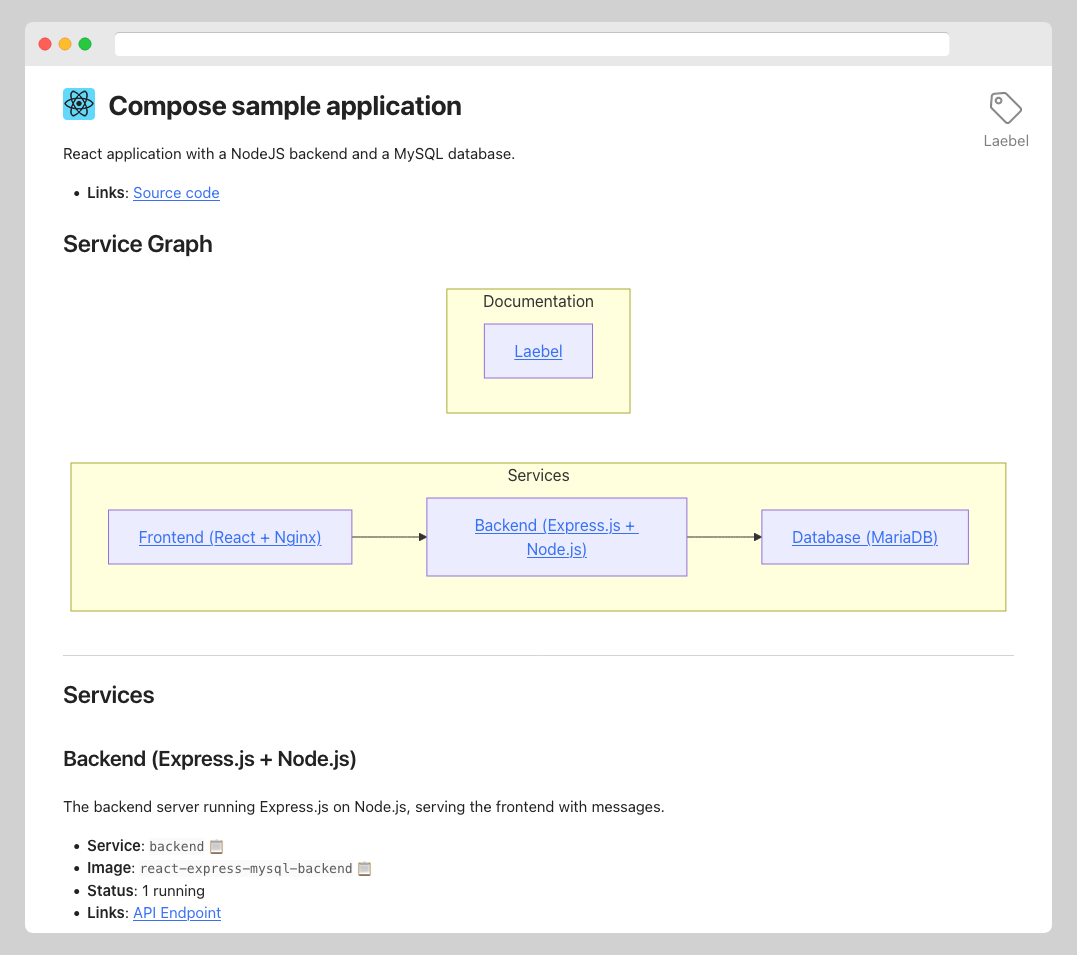
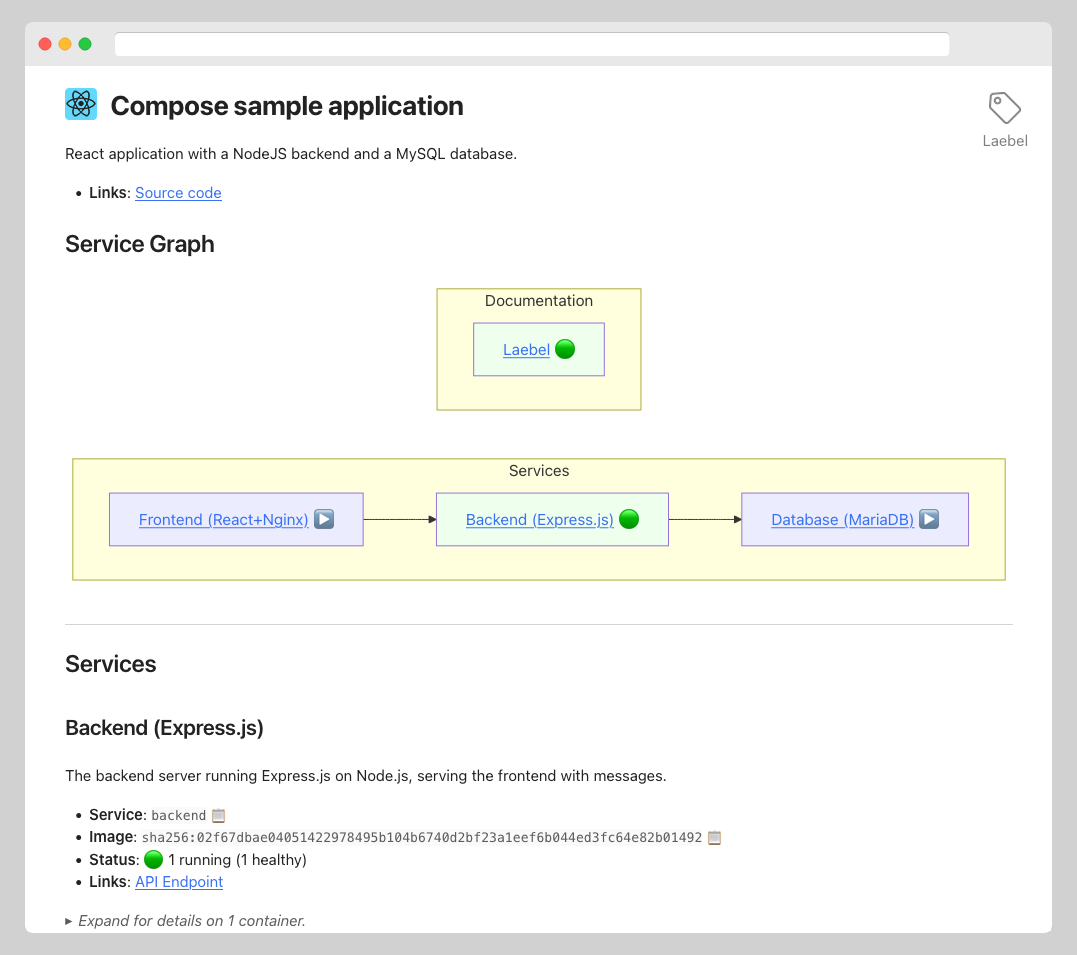
Updated example based on v0.3.0.

diff --git a/examples/react-express-mysql/laebel-output.html b/examples/react-express-mysql/laebel-output.html
@@ -32,7 +32,7 @@
             <h2 class="title">Service Graph</h2>
             
 
-<pre class="mermaid" data-processed="true"><svg aria-roledescription="flowchart-v2" role="graphics-document document" viewBox="0 0 950.88330078125 338" style="max-width: 950.88330078125px;" class="flowchart" xlink="http://www.w3.org/1999/xlink" xmlns="http://www.w3.org/2000/svg" width="100%" id="mermaid-1727380192591"><style>#mermaid-1727380192591{font-family:system-ui,sans-serif;font-size:16px;fill:#333;}#mermaid-1727380192591 .error-icon{fill:#552222;}#mermaid-1727380192591 .error-text{fill:#552222;stroke:#552222;}#mermaid-1727380192591 .edge-thickness-normal{stroke-width:1px;}#mermaid-1727380192591 .edge-thickness-thick{stroke-width:3.5px;}#mermaid-1727380192591 .edge-pattern-solid{stroke-dasharray:0;}#mermaid-1727380192591 .edge-thickness-invisible{stroke-width:0;fill:none;}#mermaid-1727380192591 .edge-pattern-dashed{stroke-dasharray:3;}#mermaid-1727380192591 .edge-pattern-dotted{stroke-dasharray:2;}#mermaid-1727380192591 .marker{fill:#333333;stroke:#333333;}#mermaid-1727380192591 .marker.cross{stroke:#333333;}#mermaid-1727380192591 svg{font-family:system-ui,sans-serif;font-size:16px;}#mermaid-1727380192591 p{margin:0;}#mermaid-1727380192591 .label{font-family:system-ui,sans-serif;color:#333;}#mermaid-1727380192591 .cluster-label text{fill:#333;}#mermaid-1727380192591 .cluster-label span{color:#333;}#mermaid-1727380192591 .cluster-label span p{background-color:transparent;}#mermaid-1727380192591 .label text,#mermaid-1727380192591 span{fill:#333;color:#333;}#mermaid-1727380192591 .node rect,#mermaid-1727380192591 .node circle,#mermaid-1727380192591 .node ellipse,#mermaid-1727380192591 .node polygon,#mermaid-1727380192591 .node path{fill:#ECECFF;stroke:#9370DB;stroke-width:1px;}#mermaid-1727380192591 .rough-node .label text,#mermaid-1727380192591 .node .label text{text-anchor:middle;}#mermaid-1727380192591 .node .katex path{fill:#000;stroke:#000;stroke-width:1px;}#mermaid-1727380192591 .node .label{text-align:center;}#mermaid-1727380192591 .node.clickable{cursor:pointer;}#mermaid-1727380192591 .arrowheadPath{fill:#333333;}#mermaid-1727380192591 .edgePath .path{stroke:#333333;stroke-width:2.0px;}#mermaid-1727380192591 .flowchart-link{stroke:#333333;fill:none;}#mermaid-1727380192591 .edgeLabel{background-color:rgba(232,232,232, 0.8);text-align:center;}#mermaid-1727380192591 .edgeLabel p{background-color:rgba(232,232,232, 0.8);}#mermaid-1727380192591 .edgeLabel rect{opacity:0.5;background-color:rgba(232,232,232, 0.8);fill:rgba(232,232,232, 0.8);}#mermaid-1727380192591 .labelBkg{background-color:rgba(232, 232, 232, 0.5);}#mermaid-1727380192591 .cluster rect{fill:#ffffde;stroke:#aaaa33;stroke-width:1px;}#mermaid-1727380192591 .cluster text{fill:#333;}#mermaid-1727380192591 .cluster span{color:#333;}#mermaid-1727380192591 div.mermaidTooltip{position:absolute;text-align:center;max-width:200px;padding:2px;font-family:system-ui,sans-serif;font-size:12px;background:hsl(80, 100%, 96.2745098039%);border:1px solid #aaaa33;border-radius:2px;pointer-events:none;z-index:100;}#mermaid-1727380192591 .flowchartTitleText{text-anchor:middle;font-size:18px;fill:#333;}#mermaid-1727380192591 :root{--mermaid-font-family:system-ui,sans-serif;}</style><g><marker orient="auto" markerHeight="8" markerWidth="8" markerUnits="userSpaceOnUse" refY="5" refX="5" viewBox="0 0 10 10" class="marker flowchart-v2" id="mermaid-1727380192591_flowchart-v2-pointEnd"><path style="stroke-width: 1px; stroke-dasharray: 1px, 0px;" class="arrowMarkerPath" d="M 0 0 L 10 5 L 0 10 z"></path></marker><marker orient="auto" markerHeight="8" markerWidth="8" markerUnits="userSpaceOnUse" refY="5" refX="4.5" viewBox="0 0 10 10" class="marker flowchart-v2" id="mermaid-1727380192591_flowchart-v2-pointStart"><path style="stroke-width: 1px; stroke-dasharray: 1px, 0px;" class="arrowMarkerPath" d="M 0 5 L 10 10 L 10 0 z"></path></marker><marker orient="auto" markerHeight="11" markerWidth="11" markerUnits="userSpaceOnUse" refY="5" refX="11" viewBox="0 0 10 10" class="marker flowchart-v2" id="mermaid-1727380192591_flowchart-v2-circleEnd"><circle style="stroke-width: 1px; stroke-dasharray: 1px, 0px;" class="arrowMarkerPath" r="5" cy="5" cx="5"></circle></marker><marker orient="auto" markerHeight="11" markerWidth="11" markerUnits="userSpaceOnUse" refY="5" refX="-1" viewBox="0 0 10 10" class="marker flowchart-v2" id="mermaid-1727380192591_flowchart-v2-circleStart"><circle style="stroke-width: 1px; stroke-dasharray: 1px, 0px;" class="arrowMarkerPath" r="5" cy="5" cx="5"></circle></marker><marker orient="auto" markerHeight="11" markerWidth="11" markerUnits="userSpaceOnUse" refY="5.2" refX="12" viewBox="0 0 11 11" class="marker cross flowchart-v2" id="mermaid-1727380192591_flowchart-v2-crossEnd"><path style="stroke-width: 2px; stroke-dasharray: 1px, 0px;" class="arrowMarkerPath" d="M 1,1 l 9,9 M 10,1 l -9,9"></path></marker><marker orient="auto" markerHeight="11" markerWidth="11" markerUnits="userSpaceOnUse" refY="5.2" refX="-1" viewBox="0 0 11 11" class="marker cross flowchart-v2" id="mermaid-1727380192591_flowchart-v2-crossStart"><path style="stroke-width: 2px; stroke-dasharray: 1px, 0px;" class="arrowMarkerPath" d="M 1,1 l 9,9 M 10,1 l -9,9"></path></marker><g class="root"><g class="clusters"></g><g class="edgePaths"></g><g class="edgeLabels"></g><g class="nodes"><g transform="translate(375.85831451416016, 0)" class="root"><g class="clusters"><g data-look="classic" id="Documentation" class="cluster"><rect height="124" width="183.1666717529297" y="8" x="8" style=""></rect><g transform="translate(44.16667175292969, 8)" class="cluster-label"><foreignObject height="24" width="110.83332824707031"><div xmlns="http://www.w3.org/1999/xhtml" style="display: table-cell; white-space: nowrap; line-height: 1.5; max-width: 200px; text-align: center;"><span class="nodeLabel"><p>Documentation</p></span></div></foreignObject></g></g></g><g class="edgePaths"></g><g class="edgeLabels"></g><g class="nodes"><g transform="translate(99.58333587646484, 70)" id="flowchart-laebel-3" class="node default"><rect height="54" width="108.16667175292969" y="-27" x="-54.083335876464844" data-et="node" data-id="abc" style="" class="basic label-container"></rect><g transform="translate(-24.083335876464844, -12)" style="" class="label"><rect></rect><foreignObject height="24" width="48.16667175292969"><div xmlns="http://www.w3.org/1999/xhtml" style="display: table-cell; white-space: nowrap; line-height: 1.5; max-width: 200px; text-align: center;"><span class="nodeLabel"><p><a href="#laebel">Laebel</a></p></span></div></foreignObject></g></g></g></g><g transform="translate(0, 174)" class="root"><g class="clusters"><g data-look="classic" id="Services" class="cluster"><rect height="148" width="934.8833312988281" y="8" x="8" style=""></rect><g transform="translate(444.41666412353516, 8)" class="cluster-label"><foreignObject height="24" width="62.05000305175781"><div xmlns="http://www.w3.org/1999/xhtml" style="display: table-cell; white-space: nowrap; line-height: 1.5; max-width: 200px; text-align: center;"><span class="nodeLabel"><p>Services</p></span></div></foreignObject></g></g></g><g class="edgePaths"><path marker-end="url(#mermaid-1727380192591_flowchart-v2-pointEnd)" style="" class="edge-thickness-normal edge-pattern-solid edge-thickness-normal edge-pattern-solid flowchart-link" id="L_backend_db_0" d="M623.883,82L630.133,82C636.383,82,648.883,82,658.258,82C667.633,82,673.883,82,679.467,82C685.05,82,689.967,82,692.425,82L694.883,82"></path><path marker-end="url(#mermaid-1727380192591_flowchart-v2-pointEnd)" style="" class="edge-thickness-normal edge-pattern-solid edge-thickness-normal edge-pattern-solid flowchart-link" id="L_frontend_backend_1" d="M288.883,82L295.133,82C301.383,82,313.883,82,323.258,82C332.633,82,338.883,82,344.467,82C350.05,82,354.967,82,357.425,82L359.883,82"></path></g><g class="edgeLabels"><g class="edgeLabel"><g transform="translate(0, 0)" class="label"><foreignObject height="0" width="0"><div class="labelBkg" xmlns="http://www.w3.org/1999/xhtml" style="display: table-cell; white-space: nowrap; line-height: 1.5; max-width: 200px; text-align: center;"><span class="edgeLabel"></span></div></foreignObject></g></g><g class="edgeLabel"><g transform="translate(0, 0)" class="label"><foreignObject height="0" width="0"><div class="labelBkg" xmlns="http://www.w3.org/1999/xhtml" style="display: table-cell; white-space: nowrap; line-height: 1.5; max-width: 200px; text-align: center;"><span class="edgeLabel"></span></div></foreignObject></g></g></g><g class="nodes"><g transform="translate(493.8833312988281, 82)" id="flowchart-backend-0" class="node default"><rect height="78" width="260" y="-39" x="-130" data-et="node" data-id="abc" style="" class="basic label-container"></rect><g transform="translate(-100, -24)" style="" class="label"><rect></rect><foreignObject height="48" width="200"><div xmlns="http://www.w3.org/1999/xhtml" style="display: table; white-space: break-spaces; line-height: 1.5; max-width: 200px; text-align: center; width: 200px;"><span class="nodeLabel"><p><a href="#backend">Backend (Express.js + Node.js)</a></p></span></div></foreignObject></g></g><g transform="translate(802.1333312988281, 82)" id="flowchart-db-1" class="node default"><rect height="54" width="206.5" y="-27" x="-103.25" data-et="node" data-id="abc" style="" class="basic label-container"></rect><g transform="translate(-73.25, -12)" style="" class="label"><rect></rect><foreignObject height="24" width="146.5"><div xmlns="http://www.w3.org/1999/xhtml" style="display: table-cell; white-space: nowrap; line-height: 1.5; max-width: 200px; text-align: center;"><span class="nodeLabel"><p><a href="#db">Database (MariaDB)</a></p></span></div></foreignObject></g></g><g transform="translate(167.19166564941406, 82)" id="flowchart-frontend-2" class="node default"><rect height="54" width="243.38333129882812" y="-27" x="-121.69166564941406" data-et="node" data-id="abc" style="" class="basic label-container"></rect><g transform="translate(-91.69166564941406, -12)" style="" class="label"><rect></rect><foreignObject height="24" width="183.38333129882812"><div xmlns="http://www.w3.org/1999/xhtml" style="display: table-cell; white-space: nowrap; line-height: 1.5; max-width: 200px; text-align: center;"><span class="nodeLabel"><p><a href="#frontend">Frontend (React + Nginx)</a></p></span></div></foreignObject></g></g></g></g></g></g></g></svg></pre>
+<pre class="mermaid" data-processed="true"><svg aria-roledescription="flowchart-v2" role="graphics-document document" viewBox="0 0 970.0499877929688 314" style="max-width: 970.0499877929688px;" class="flowchart" xlink="http://www.w3.org/1999/xlink" xmlns="http://www.w3.org/2000/svg" width="100%" id="mermaid-1727430916337"><style>#mermaid-1727430916337{font-family:system-ui,sans-serif;font-size:16px;fill:#333;}#mermaid-1727430916337 .error-icon{fill:#552222;}#mermaid-1727430916337 .error-text{fill:#552222;stroke:#552222;}#mermaid-1727430916337 .edge-thickness-normal{stroke-width:1px;}#mermaid-1727430916337 .edge-thickness-thick{stroke-width:3.5px;}#mermaid-1727430916337 .edge-pattern-solid{stroke-dasharray:0;}#mermaid-1727430916337 .edge-thickness-invisible{stroke-width:0;fill:none;}#mermaid-1727430916337 .edge-pattern-dashed{stroke-dasharray:3;}#mermaid-1727430916337 .edge-pattern-dotted{stroke-dasharray:2;}#mermaid-1727430916337 .marker{fill:#333333;stroke:#333333;}#mermaid-1727430916337 .marker.cross{stroke:#333333;}#mermaid-1727430916337 svg{font-family:system-ui,sans-serif;font-size:16px;}#mermaid-1727430916337 p{margin:0;}#mermaid-1727430916337 .label{font-family:system-ui,sans-serif;color:#333;}#mermaid-1727430916337 .cluster-label text{fill:#333;}#mermaid-1727430916337 .cluster-label span{color:#333;}#mermaid-1727430916337 .cluster-label span p{background-color:transparent;}#mermaid-1727430916337 .label text,#mermaid-1727430916337 span{fill:#333;color:#333;}#mermaid-1727430916337 .node rect,#mermaid-1727430916337 .node circle,#mermaid-1727430916337 .node ellipse,#mermaid-1727430916337 .node polygon,#mermaid-1727430916337 .node path{fill:#ECECFF;stroke:#9370DB;stroke-width:1px;}#mermaid-1727430916337 .rough-node .label text,#mermaid-1727430916337 .node .label text{text-anchor:middle;}#mermaid-1727430916337 .node .katex path{fill:#000;stroke:#000;stroke-width:1px;}#mermaid-1727430916337 .node .label{text-align:center;}#mermaid-1727430916337 .node.clickable{cursor:pointer;}#mermaid-1727430916337 .arrowheadPath{fill:#333333;}#mermaid-1727430916337 .edgePath .path{stroke:#333333;stroke-width:2.0px;}#mermaid-1727430916337 .flowchart-link{stroke:#333333;fill:none;}#mermaid-1727430916337 .edgeLabel{background-color:rgba(232,232,232, 0.8);text-align:center;}#mermaid-1727430916337 .edgeLabel p{background-color:rgba(232,232,232, 0.8);}#mermaid-1727430916337 .edgeLabel rect{opacity:0.5;background-color:rgba(232,232,232, 0.8);fill:rgba(232,232,232, 0.8);}#mermaid-1727430916337 .labelBkg{background-color:rgba(232, 232, 232, 0.5);}#mermaid-1727430916337 .cluster rect{fill:#ffffde;stroke:#aaaa33;stroke-width:1px;}#mermaid-1727430916337 .cluster text{fill:#333;}#mermaid-1727430916337 .cluster span{color:#333;}#mermaid-1727430916337 div.mermaidTooltip{position:absolute;text-align:center;max-width:200px;padding:2px;font-family:system-ui,sans-serif;font-size:12px;background:hsl(80, 100%, 96.2745098039%);border:1px solid #aaaa33;border-radius:2px;pointer-events:none;z-index:100;}#mermaid-1727430916337 .flowchartTitleText{text-anchor:middle;font-size:18px;fill:#333;}#mermaid-1727430916337 :root{--mermaid-font-family:system-ui,sans-serif;}</style><g><marker orient="auto" markerHeight="8" markerWidth="8" markerUnits="userSpaceOnUse" refY="5" refX="5" viewBox="0 0 10 10" class="marker flowchart-v2" id="mermaid-1727430916337_flowchart-v2-pointEnd"><path style="stroke-width: 1px; stroke-dasharray: 1px, 0px;" class="arrowMarkerPath" d="M 0 0 L 10 5 L 0 10 z"></path></marker><marker orient="auto" markerHeight="8" markerWidth="8" markerUnits="userSpaceOnUse" refY="5" refX="4.5" viewBox="0 0 10 10" class="marker flowchart-v2" id="mermaid-1727430916337_flowchart-v2-pointStart"><path style="stroke-width: 1px; stroke-dasharray: 1px, 0px;" class="arrowMarkerPath" d="M 0 5 L 10 10 L 10 0 z"></path></marker><marker orient="auto" markerHeight="11" markerWidth="11" markerUnits="userSpaceOnUse" refY="5" refX="11" viewBox="0 0 10 10" class="marker flowchart-v2" id="mermaid-1727430916337_flowchart-v2-circleEnd"><circle style="stroke-width: 1px; stroke-dasharray: 1px, 0px;" class="arrowMarkerPath" r="5" cy="5" cx="5"></circle></marker><marker orient="auto" markerHeight="11" markerWidth="11" markerUnits="userSpaceOnUse" refY="5" refX="-1" viewBox="0 0 10 10" class="marker flowchart-v2" id="mermaid-1727430916337_flowchart-v2-circleStart"><circle style="stroke-width: 1px; stroke-dasharray: 1px, 0px;" class="arrowMarkerPath" r="5" cy="5" cx="5"></circle></marker><marker orient="auto" markerHeight="11" markerWidth="11" markerUnits="userSpaceOnUse" refY="5.2" refX="12" viewBox="0 0 11 11" class="marker cross flowchart-v2" id="mermaid-1727430916337_flowchart-v2-crossEnd"><path style="stroke-width: 2px; stroke-dasharray: 1px, 0px;" class="arrowMarkerPath" d="M 1,1 l 9,9 M 10,1 l -9,9"></path></marker><marker orient="auto" markerHeight="11" markerWidth="11" markerUnits="userSpaceOnUse" refY="5.2" refX="-1" viewBox="0 0 11 11" class="marker cross flowchart-v2" id="mermaid-1727430916337_flowchart-v2-crossStart"><path style="stroke-width: 2px; stroke-dasharray: 1px, 0px;" class="arrowMarkerPath" d="M 1,1 l 9,9 M 10,1 l -9,9"></path></marker><g class="root"><g class="clusters"></g><g class="edgePaths"></g><g class="edgeLabels"></g><g class="nodes"><g transform="translate(372.69165802001953, 0)" class="root"><g class="clusters"><g data-look="classic" id="Documentation" class="cluster"><rect height="124" width="208.6666717529297" y="8" x="8" style=""></rect><g transform="translate(56.91667175292969, 8)" class="cluster-label"><foreignObject height="24" width="110.83332824707031"><div xmlns="http://www.w3.org/1999/xhtml" style="display: table-cell; white-space: nowrap; line-height: 1.5; max-width: 200px; text-align: center;"><span class="nodeLabel"><p>Documentation</p></span></div></foreignObject></g></g></g><g class="edgePaths"></g><g class="edgeLabels"></g><g class="nodes"><g transform="translate(112.33333587646484, 70)" id="flowchart-laebel-3" class="node default"><rect height="54" width="133.6666717529297" y="-27" x="-66.83333587646484" data-et="node" data-id="abc" style="" class="basic label-container"></rect><g transform="translate(-36.833335876464844, -12)" style="" class="label"><rect></rect><foreignObject height="24" width="73.66667175292969"><div xmlns="http://www.w3.org/1999/xhtml" style="display: table-cell; white-space: nowrap; line-height: 1.5; max-width: 200px; text-align: center;"><span class="nodeLabel"><p><a href="#laebel">Laebel</a> <span class="summary"><span title="The service is running and is healthy. 😀" class="healthy">🟢</span></span></p></span></div></foreignObject></g></g></g></g><g transform="translate(0, 174)" class="root"><g class="clusters"><g data-look="classic" id="Services" class="cluster"><rect height="124" width="954.0499877929688" y="8" x="8" style=""></rect><g transform="translate(453.99999237060547, 8)" class="cluster-label"><foreignObject height="24" width="62.05000305175781"><div xmlns="http://www.w3.org/1999/xhtml" style="display: table-cell; white-space: nowrap; line-height: 1.5; max-width: 200px; text-align: center;"><span class="nodeLabel"><p>Services</p></span></div></foreignObject></g></g></g><g class="edgePaths"><path marker-end="url(#mermaid-1727430916337_flowchart-v2-pointEnd)" style="" class="edge-thickness-normal edge-pattern-solid edge-thickness-normal edge-pattern-solid flowchart-link" id="L_backend_db_0" d="M617.55,70L623.8,70C630.05,70,642.55,70,651.925,70C661.3,70,667.55,70,673.133,70C678.717,70,683.633,70,686.092,70L688.55,70"></path><path marker-end="url(#mermaid-1727430916337_flowchart-v2-pointEnd)" style="" class="edge-thickness-normal edge-pattern-solid edge-thickness-normal edge-pattern-solid flowchart-link" id="L_frontend_backend_1" d="M305.067,70L311.317,70C317.567,70,330.067,70,339.442,70C348.817,70,355.067,70,360.65,70C366.233,70,371.15,70,373.608,70L376.067,70"></path></g><g class="edgeLabels"><g class="edgeLabel"><g transform="translate(0, 0)" class="label"><foreignObject height="0" width="0"><div class="labelBkg" xmlns="http://www.w3.org/1999/xhtml" style="display: table-cell; white-space: nowrap; line-height: 1.5; max-width: 200px; text-align: center;"><span class="edgeLabel"></span></div></foreignObject></g></g><g class="edgeLabel"><g transform="translate(0, 0)" class="label"><foreignObject height="0" width="0"><div class="labelBkg" xmlns="http://www.w3.org/1999/xhtml" style="display: table-cell; white-space: nowrap; line-height: 1.5; max-width: 200px; text-align: center;"><span class="edgeLabel"></span></div></foreignObject></g></g></g><g class="nodes"><g transform="translate(498.8083190917969, 70)" id="flowchart-backend-0" class="node default"><rect height="54" width="237.48333740234375" y="-27" x="-118.74166870117188" data-et="node" data-id="abc" style="" class="basic label-container"></rect><g transform="translate(-88.74166870117188, -12)" style="" class="label"><rect></rect><foreignObject height="24" width="177.48333740234375"><div xmlns="http://www.w3.org/1999/xhtml" style="display: table-cell; white-space: nowrap; line-height: 1.5; max-width: 200px; text-align: center;"><span class="nodeLabel"><p><a href="#backend">Backend (Express.js)</a> <span class="summary"><span title="The service is running and is healthy. 😀" class="healthy">🟢</span></span></p></span></div></foreignObject></g></g><g transform="translate(808.5499877929688, 70)" id="flowchart-db-1" class="node default"><rect height="54" width="232" y="-27" x="-116" data-et="node" data-id="abc" style="" class="basic label-container"></rect><g transform="translate(-86, -12)" style="" class="label"><rect></rect><foreignObject height="24" width="172"><div xmlns="http://www.w3.org/1999/xhtml" style="display: table-cell; white-space: nowrap; line-height: 1.5; max-width: 200px; text-align: center;"><span class="nodeLabel"><p><a href="#db">Database (MariaDB)</a> <span class="summary"><span title="The service is running, but has no health information." class="running">▶</span></span></p></span></div></foreignObject></g></g><g transform="translate(175.2833251953125, 70)" id="flowchart-frontend-2" class="node default"><rect height="54" width="259.56666564941406" y="-27" x="-129.78333282470703" data-et="node" data-id="abc" style="" class="basic label-container"></rect><g transform="translate(-99.78333282470703, -12)" style="" class="label"><rect></rect><foreignObject height="24" width="199.56666564941406"><div xmlns="http://www.w3.org/1999/xhtml" style="display: table-cell; white-space: nowrap; line-height: 1.5; max-width: 200px; text-align: center;"><span class="nodeLabel"><p><a href="#frontend">Frontend (React+Nginx)</a> <span class="summary"><span title="The service is running, but has no health information." class="running">▶</span></span></p></span></div></foreignObject></g></g></g></g></g></g></g></svg></pre>
 
 
         </section>
@@ -41,7 +41,7 @@
                 <h2 class="title">Services</h2>
                 
                     <section class="service">
-                        <h3 class="title" id="backend">Backend (Express.js + Node.js)</h3>
+                        <h3 class="title" id="backend">Backend (Express.js)</h3>
                         <p class="description">The backend server running Express.js on Node.js, serving the frontend with messages.</p>
                         <ul>
                             
@@ -50,12 +50,17 @@
 <span class="clipboard" onclick="copyPreviousText(this)">📋</span>
 
                             </li><li class="image"><strong>Image</strong>:
-                                <code>react-express-mysql-backend</code> 
+                                <code>sha256:02f67dbae04051422978495b104b6740d2bf23a1eef6b044ed3fc64e82b01492</code> 
 <span class="clipboard" onclick="copyPreviousText(this)">📋</span>
 </li>
                             <li class="status"><strong>Status</strong>:
+<span class="status">
+<span class="summary"><span class="healthy" title="The service is running and is healthy. 😀">🟢</span></span>
+<span class="details">
 
-<span class="running">1 running</span>
+<span class="running">1 running</span> (1 healthy)
+</span>
+</span>
 </li>
                             
                                 <li class="links">
@@ -72,17 +77,19 @@
                                 <thead>
                                 <tr>
                                     <th>Container ID</th>
-                                    <th>Names</th>
+                                    <th>Name</th>
                                     <th>Status</th>
+                                    <th>Health</th>
                                 </tr>
                                 </thead>
                                 
                                     <tbody><tr class="container">
-                                        <td><code>87004184e21053a9e03aa417da2441f60688354730f9c297211701a4069f67c6</code> 
+                                        <td><code>2d956f64e2852716cff9bca9ed418a37f23450e0a1d28e53237a54f683fafac4</code> 
 <span class="clipboard" onclick="copyPreviousText(this)">📋</span>
 </td>
                                         <td>/react-express-mysql-backend-1</td>
-                                        <td>Up 10 minutes (healthy)</td>
+                                        <td>running</td>
+                                        <td>healthy</td>
                                     </tr>
                                 
                             </tbody></table>
@@ -99,12 +106,17 @@
 <span class="clipboard" onclick="copyPreviousText(this)">📋</span>
 
                             </li><li class="image"><strong>Image</strong>:
-                                <code>mariadb:10.6.4-focal</code> 
+                                <code>sha256:6819e5d163d1d24d896d090e1f55c38bcb9e55db811196e3919f0707a86eff03</code> 
 <span class="clipboard" onclick="copyPreviousText(this)">📋</span>
 </li>
                             <li class="status"><strong>Status</strong>:
+<span class="status">
+<span class="summary"><span class="running" title="The service is running, but has no health information.">▶</span></span>
+<span class="details">
 
 <span class="running">1 running</span>
+</span>
+</span>
 </li>
                             
                         </ul>
@@ -116,8 +128,9 @@
                                 <thead>
                                 <tr>
                                     <th>Container ID</th>
-                                    <th>Names</th>
+                                    <th>Name</th>
                                     <th>Status</th>
+                                    <th>Health</th>
                                 </tr>
                                 </thead>
                                 
@@ -126,7 +139,8 @@
 <span class="clipboard" onclick="copyPreviousText(this)">📋</span>
 </td>
                                         <td>/react-express-mysql-db-1</td>
-                                        <td>Up 23 minutes</td>
+                                        <td>running</td>
+                                        <td>unknown</td>
                                     </tr>
                                 
                             </tbody></table>
@@ -134,7 +148,7 @@
                     </section>
                 
                     <section class="service">
-                        <h3 class="title" id="frontend">Frontend (React + Nginx)</h3>
+                        <h3 class="title" id="frontend">Frontend (React+Nginx)</h3>
                         <p class="description">A Nginx server hosts the React-based frontend which displays important messages.</p>
                         <ul>
                             
@@ -143,12 +157,17 @@
 <span class="clipboard" onclick="copyPreviousText(this)">📋</span>
 
                             </li><li class="image"><strong>Image</strong>:
-                                <code>react-express-mysql-frontend</code> 
+                                <code>sha256:bf60bcefc1ec9311dbe5f9e5022b7176305c370b762a721a469520e86905bddb</code> 
 <span class="clipboard" onclick="copyPreviousText(this)">📋</span>
 </li>
                             <li class="status"><strong>Status</strong>:
+<span class="status">
+<span class="summary"><span class="running" title="The service is running, but has no health information.">▶</span></span>
+<span class="details">
 
 <span class="running">1 running</span>
+</span>
+</span>
 </li>
                             
                                 <li class="links">
@@ -165,17 +184,19 @@
                                 <thead>
                                 <tr>
                                     <th>Container ID</th>
-                                    <th>Names</th>
+                                    <th>Name</th>
                                     <th>Status</th>
+                                    <th>Health</th>
                                 </tr>
                                 </thead>
                                 
                                     <tbody><tr class="container">
-                                        <td><code>7cc8f00dc7b93c8059e009e7ba6ed213bd14efd54a5f18400e51c9e5a10786c5</code> 
+                                        <td><code>c2ea388d9f3270b653b4f19b8dc09704f8fd6f1ae45cb4d234805798eb37f7da</code> 
 <span class="clipboard" onclick="copyPreviousText(this)">📋</span>
 </td>
                                         <td>/react-express-mysql-frontend-1</td>
-                                        <td>Up 10 minutes</td>
+                                        <td>running</td>
+                                        <td>unknown</td>
                                     </tr>
                                 
                             </tbody></table>
@@ -197,18 +218,18 @@
 <span class="clipboard" onclick="copyPreviousText(this)">📋</span>
 
                             </li><li class="image"><strong>Image</strong>:
-                                <code>ghcr.io/henrikje/laebel:latest</code> 
+                                <code>sha256:2885dceb6d55fc66cfa3902f3d477de068d184d1f7b8005486055f00748110d0</code> 
 <span class="clipboard" onclick="copyPreviousText(this)">📋</span>
 </li>
                             <li class="status"><strong>Status</strong>:
+<span class="status">
+<span class="summary"><span class="healthy" title="The service is running and is healthy. 😀">🟢</span></span>
+<span class="details">
 
-<span class="running">1 running</span>
+<span class="running">1 running</span> (1 healthy)
+</span>
+</span>
 </li>
-                            
-                                <li class="links">
-                                    <strong>Links</strong>: 
-                                    <a href="https://github.com/henrikje/laebel">Website</a>
-                                </li>
                             
                         </ul>
                         <details class="containers">
@@ -219,17 +240,19 @@
                                 <thead>
                                 <tr>
                                     <th>Container ID</th>
-                                    <th>Names</th>
+                                    <th>Name</th>
                                     <th>Status</th>
+                                    <th>Health</th>
                                 </tr>
                                 </thead>
                                 
                                     <tbody><tr class="container">
-                                        <td><code>1a4dc2351d8b8f2f536c59891176b25a87f1cce202d82aed6515c962eb2704da</code> 
+                                        <td><code>626b9b5816d94bcc2993771bc1931a36ddf5272a9146a89f5c4a137d26f76668</code> 
 <span class="clipboard" onclick="copyPreviousText(this)">📋</span>
 </td>
                                         <td>/react-express-mysql-laebel-1</td>
-                                        <td>Up 7 minutes (healthy)</td>
+                                        <td>running</td>
+                                        <td>healthy</td>
                                     </tr>
                                 
                             </tbody></table>
@@ -252,4 +275,4 @@
         }
     }
 </script>
-<div class="mermaidTooltip" style="opacity: 0;"></div></body></html>
+<div class="mermaidTooltip" style="opacity: 0;"></div></body><tinysnap-extension></tinysnap-extension></html>

diff --git a/examples/react-express-mysql/laebel-output_files/styles.css b/examples/react-express-mysql/laebel-output_files/styles.css
@@ -140,3 +140,13 @@ summary {
 .clipboard:active::after {
     content: "Copied!"
 }
+
+.summary {
+    cursor: help;
+}
+.node:has(.unhealthy) rect {
+    fill: #fee !important;
+}
+.node:has(.healthy) rect {
+    fill: #efe !important;
+}

diff --git a/examples/react-express-mysql/label-example-screenshot.md b/examples/react-express-mysql/label-example-screenshot.md
@@ -1,0 +1,3 @@
+# Screenshot
+
+The screenshot was processed using [Screenly](https://screely.com/editor).
